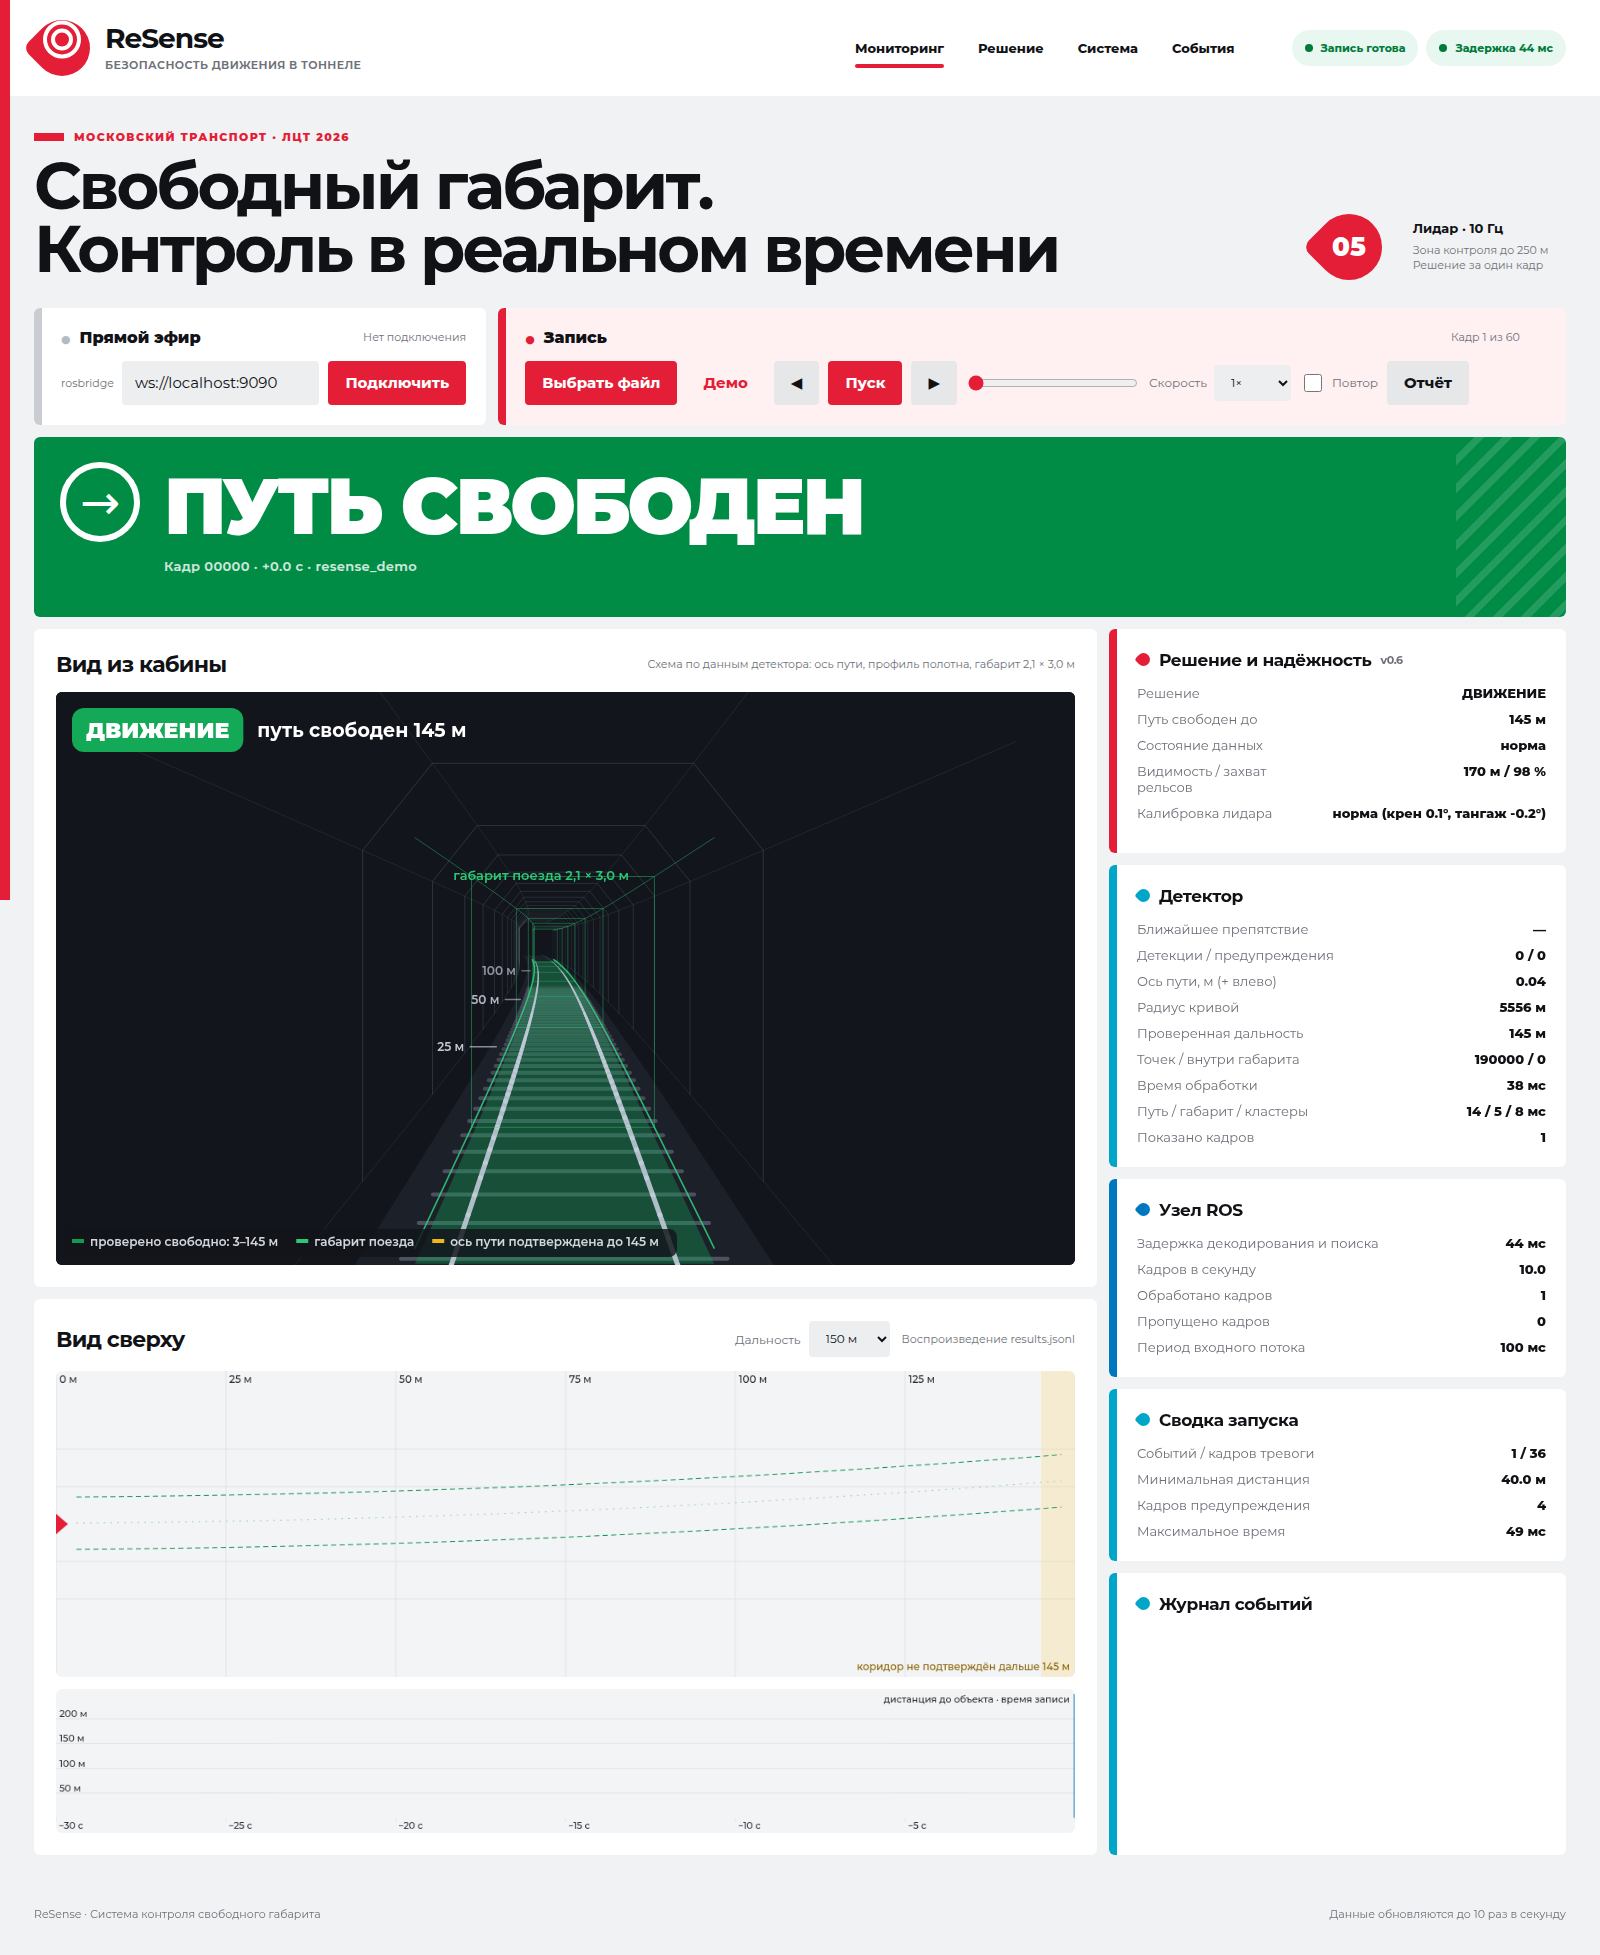
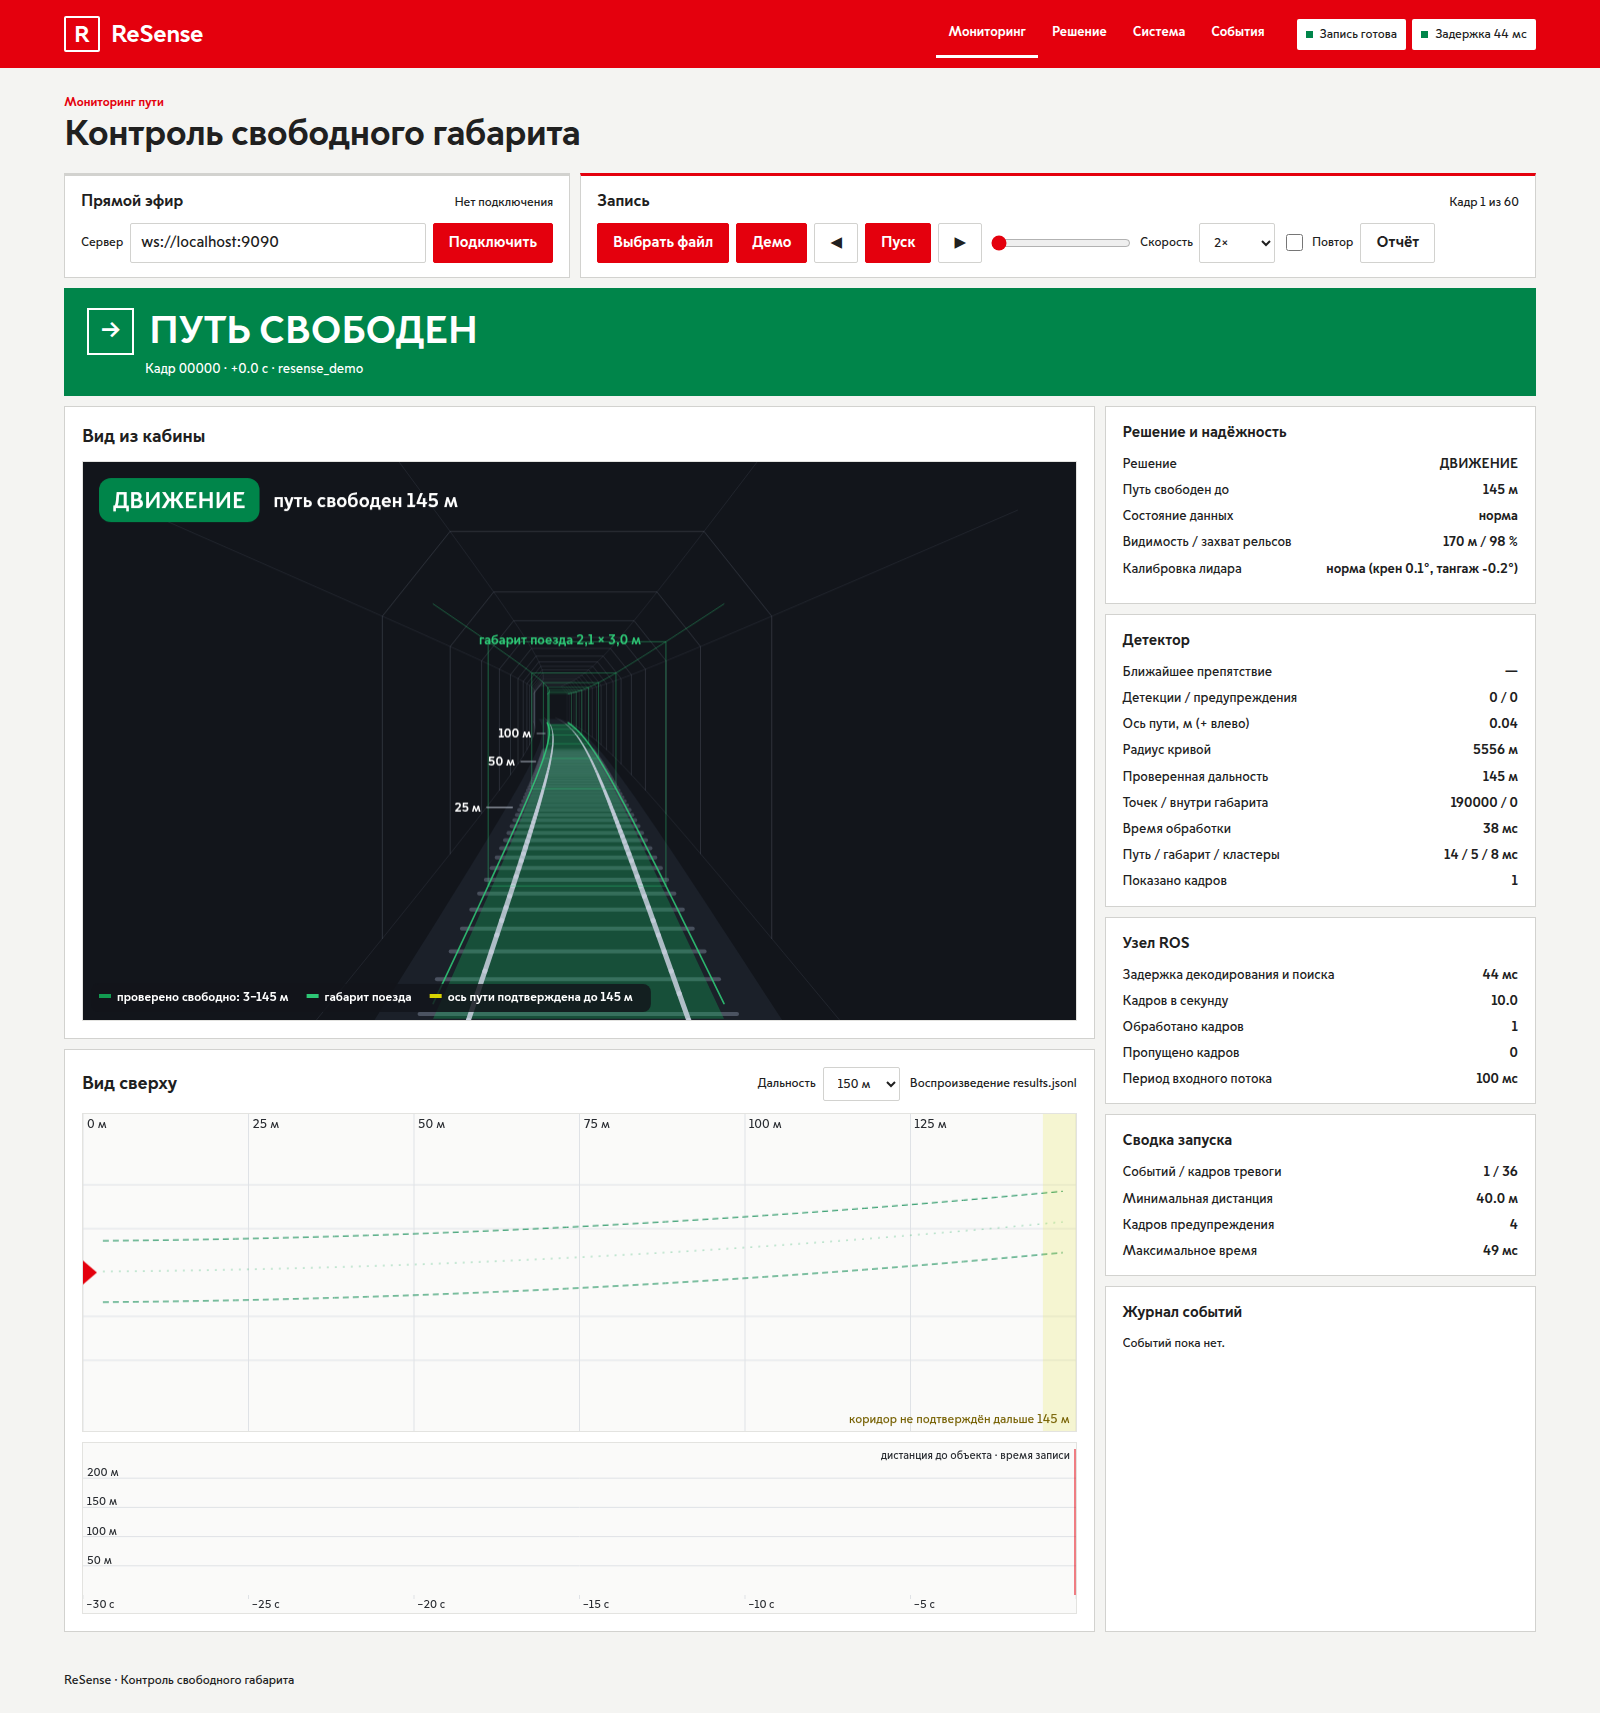
Refresh dashboard gallery after redesign

diff --git a/web/index.html b/web/index.html
@@ -481,7 +481,12 @@ function applySafety(res) {
   $('mount').textContent = m.status ? `${{ ok: 'норма', pending: 'ожидание', error: 'ошибка' }[m.status] || m.status}${m.status === 'ok' ? ` (крен ${m.roll_deg}°, тангаж ${m.pitch_deg}°)` : ''}` : '—';
   $('health-msgs').textContent = (h.messages || []).join('; ');
 }
-function logLine(s) { const l = $('log'); l.textContent = s + '\n' + l.textContent; if (l.textContent.length > 60000) l.textContent = l.textContent.slice(0, 50000); }
+function logLine(s) {
+  const l = $('log');
+  if (l.querySelector('.empty-log')) l.textContent = '';
+  l.textContent = s + '\n' + l.textContent;
+  if (l.textContent.length > 60000) l.textContent = l.textContent.slice(0, 50000);
+}
 function applyNode(node) {
   const card = $('node-card');
   if (!node) {
@@ -532,7 +537,7 @@ $('connect').onclick = () => {
 function resetView() {
   state.hist = []; state.shown = 0; state.alarmFrames = 0; state.lastObstacle = false; state.last = null;
   state.node = { lastDropped: null, alertUntil: 0 };
-  $('log').textContent = '';
+  $('log').innerHTML = '<span class="empty-log">Событий пока нет.</span>';
   $('banner').className = 'idle'; $('banner').textContent = 'ОЖИДАНИЕ ДАННЫХ';
 }
 function setMode(m) {

diff --git a/docs/images/README.md b/docs/images/README.md
@@ -2,11 +2,11 @@
 
 > **Purpose:** gallery of the browser dashboard's captures and where their data comes from.
 > **Audience:** jury, team · **Owner:** P2 · **Language:** EN
-> **Last verified:** 2026-09-24, `537e220` · **Status:** current
+> **Last verified:** 2026-09-24, `46a04bb` · **Status:** current
 
 These screenshots show the current Russian-language browser dashboard in its three decision states.
-Its light modular layout, red primary actions and large status typography follow the visual
-direction of the Moscow Transport portal while all marks and graphics remain ReSense's. The **cab
+Its Moscow Sans typography and primary red come from the supplied Metro style archive. The layout
+uses plain white panels, dark labels and a red header that hides on downward scroll. The **cab
 view** (Вид из кабины) under the banner is the driver's-eye picture of
 [`scripts/hero_view.py`](../../scripts/hero_view.py) drawn from the status JSON alone: rails and the
 2.1 × 3.0 m train envelope along the fitted track axis and bed profile, the verified-clear stretch
@@ -15,7 +15,9 @@ tunnel outline is a schematic depth cue; no point cloud reaches the browser.
 
 The three full-page captures were taken from [`web/index.html`](../../web/index.html) at 1600 px
 width using the built-in 60-frame jury demo, so they are reproducible without ROS, a bag, or the
-organizers' dataset. Their values are synthetic UI demonstration data, not evaluation evidence.
+organizers' dataset. Run `python web/demo/capture_gallery.py` from the repository root with
+Playwright and Chromium installed to refresh all four images; use `--chromium` to select a browser.
+The demo values are synthetic UI demonstration data, not evaluation evidence.
 Real-data renders remain in [`docs/img/`](../img/), and real-data videos remain in
 [`docs/video/`](../video/).
 
@@ -25,7 +27,7 @@ Real-data renders remain in [`docs/img/`](../img/), and real-data videos remain 
 
 ## ВНИМАНИЕ — объект рядом с габаритом
 
-![ReSense dashboard showing a CAUTION decision for an advisory object at 116 metres in the cab view](dashboard-caution.png)
+![ReSense dashboard showing a CAUTION decision for an advisory object at 120 metres in the cab view](dashboard-caution.png)
 
 ## СТОП — препятствие внутри габарита
 
